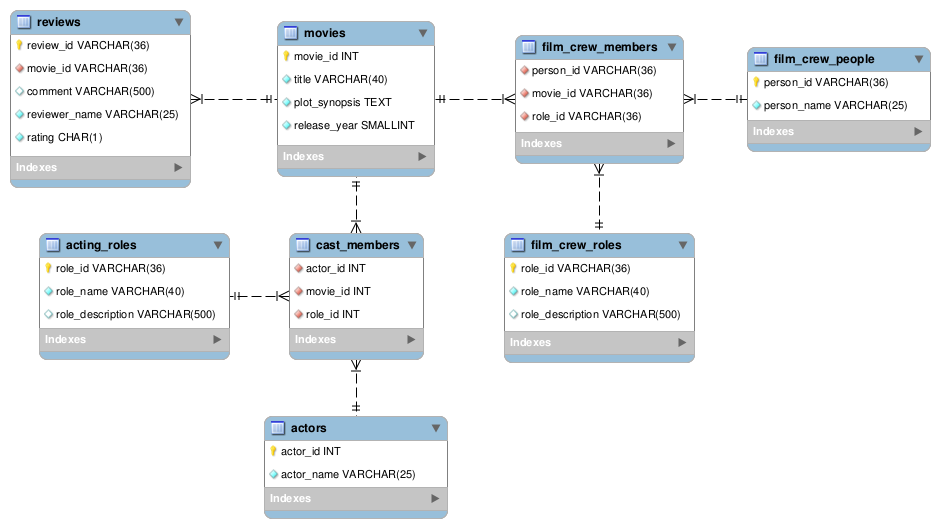
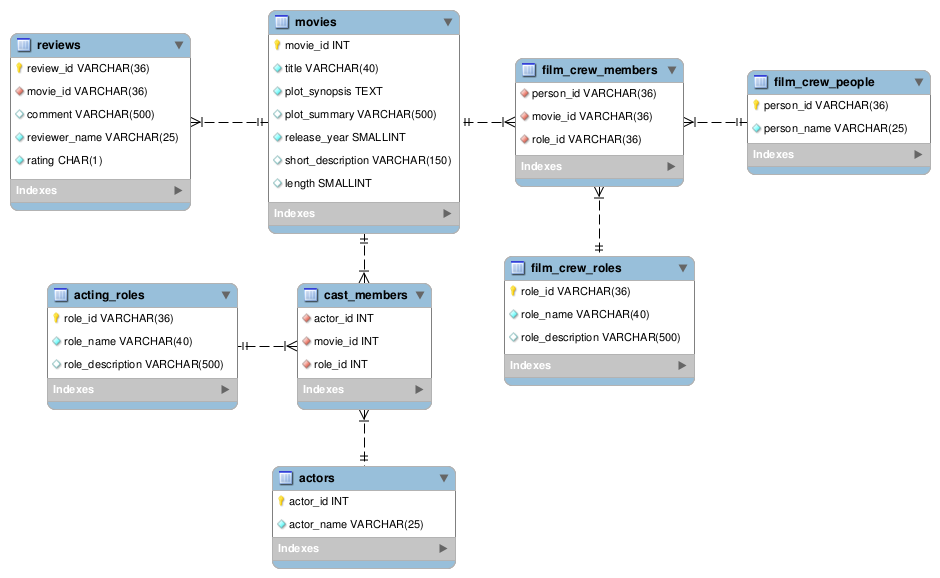
Apply CORS configurations to controllers and add a few fields to the entity movies

diff --git a/002-spring-boot-api/src/main/java/br/uece/ees/moviesapi/api/MoviesController.java b/002-spring-boot-api/src/main/java/br/uece/ees/moviesapi/api/MoviesController.java
@@ -6,18 +6,12 @@ import org.springframework.http.HttpStatus;
 import org.springframework.http.ResponseEntity;
 import br.uece.ees.moviesapi.domain.model.Movie;
 import javax.persistence.EntityNotFoundException;
-import org.springframework.web.bind.annotation.GetMapping;
-import org.springframework.web.bind.annotation.PutMapping;
-import org.springframework.web.bind.annotation.RequestBody;
-import org.springframework.web.bind.annotation.PostMapping;
-import org.springframework.web.bind.annotation.PathVariable;
-import org.springframework.web.bind.annotation.DeleteMapping;
+import org.springframework.web.bind.annotation.*;
 import org.springframework.beans.factory.annotation.Autowired;
-import org.springframework.web.bind.annotation.RequestMapping;
-import org.springframework.web.bind.annotation.RestController;
 import br.uece.ees.moviesapi.domain.model.MovieRepositoryInterface;
 
 @RestController
+@CrossOrigin(origins = "*")
 @RequestMapping(value = "/movies")
 public class MoviesController {
 

diff --git a/002-spring-boot-api/src/main/java/br/uece/ees/moviesapi/domain/model/Movie.java b/002-spring-boot-api/src/main/java/br/uece/ees/moviesapi/domain/model/Movie.java
@@ -32,8 +32,23 @@ public class Movie {
 
 	@NotNull
 	@NotEmpty
+	@Column(name = "length", nullable = false)
+	private short length;
+
+	@NotNull
+	@NotEmpty
 	@Column(name = "plot_synopsis", nullable = false)
 	private String synopsis;
+
+	@NotNull
+	@NotEmpty
+	@Column(name = "plot_summary", nullable = false)
+	private String summary;
+
+	@NotNull
+	@NotEmpty
+	@Column(name = "short_description", nullable = false)
+	private String description;
 
 	@NotNull
 	@NotEmpty

diff --git a/002-spring-boot-api/src/main/java/br/uece/ees/moviesapi/api/ActorsController.java b/002-spring-boot-api/src/main/java/br/uece/ees/moviesapi/api/ActorsController.java
@@ -12,6 +12,7 @@ import br.uece.ees.moviesapi.domain.model.ActorRepositoryInterface;
 import br.uece.ees.moviesapi.domain.model.EntityAlreadyExistsException;
 
 @RestController
+@CrossOrigin(origins = "*")
 @RequestMapping(value = "/actors")
 public class ActorsController {
 

diff --git a/002-spring-boot-api/src/main/java/br/uece/ees/moviesapi/api/FilmCrewPeopleController.java b/002-spring-boot-api/src/main/java/br/uece/ees/moviesapi/api/FilmCrewPeopleController.java
@@ -9,6 +9,7 @@ import org.springframework.web.bind.annotation.*;
 import org.springframework.beans.factory.annotation.Autowired;
 
 @RestController
+@CrossOrigin(origins = "*")
 @RequestMapping(value = "/film-crew/people")
 public class FilmCrewPeopleController {
 

diff --git a/002-spring-boot-api/src/main/java/br/uece/ees/moviesapi/api/FilmCrewRolesController.java b/002-spring-boot-api/src/main/java/br/uece/ees/moviesapi/api/FilmCrewRolesController.java
@@ -9,6 +9,7 @@ import org.springframework.web.bind.annotation.*;
 import org.springframework.beans.factory.annotation.Autowired;
 
 @RestController
+@CrossOrigin(origins = "*")
 @RequestMapping(value = "/film-crew/roles")
 public class FilmCrewRolesController {
 

diff --git a/002-spring-boot-api/src/main/java/br/uece/ees/moviesapi/api/ActingRolesController.java b/002-spring-boot-api/src/main/java/br/uece/ees/moviesapi/api/ActingRolesController.java
@@ -9,6 +9,7 @@ import org.springframework.web.bind.annotation.*;
 import org.springframework.beans.factory.annotation.Autowired;
 
 @RestController
+@CrossOrigin(origins = "*")
 @RequestMapping(value = "/acting/roles")
 public class ActingRolesController {
 

diff --git a/002-spring-boot-api/src/main/java/br/uece/ees/moviesapi/api/ReviewsController.java b/002-spring-boot-api/src/main/java/br/uece/ees/moviesapi/api/ReviewsController.java
@@ -9,6 +9,7 @@ import javax.persistence.EntityNotFoundException;
 import org.springframework.beans.factory.annotation.Autowired;
 
 @RestController
+@CrossOrigin(origins = "*")
 @RequestMapping(value = "/movies")
 public class ReviewsController {
 
